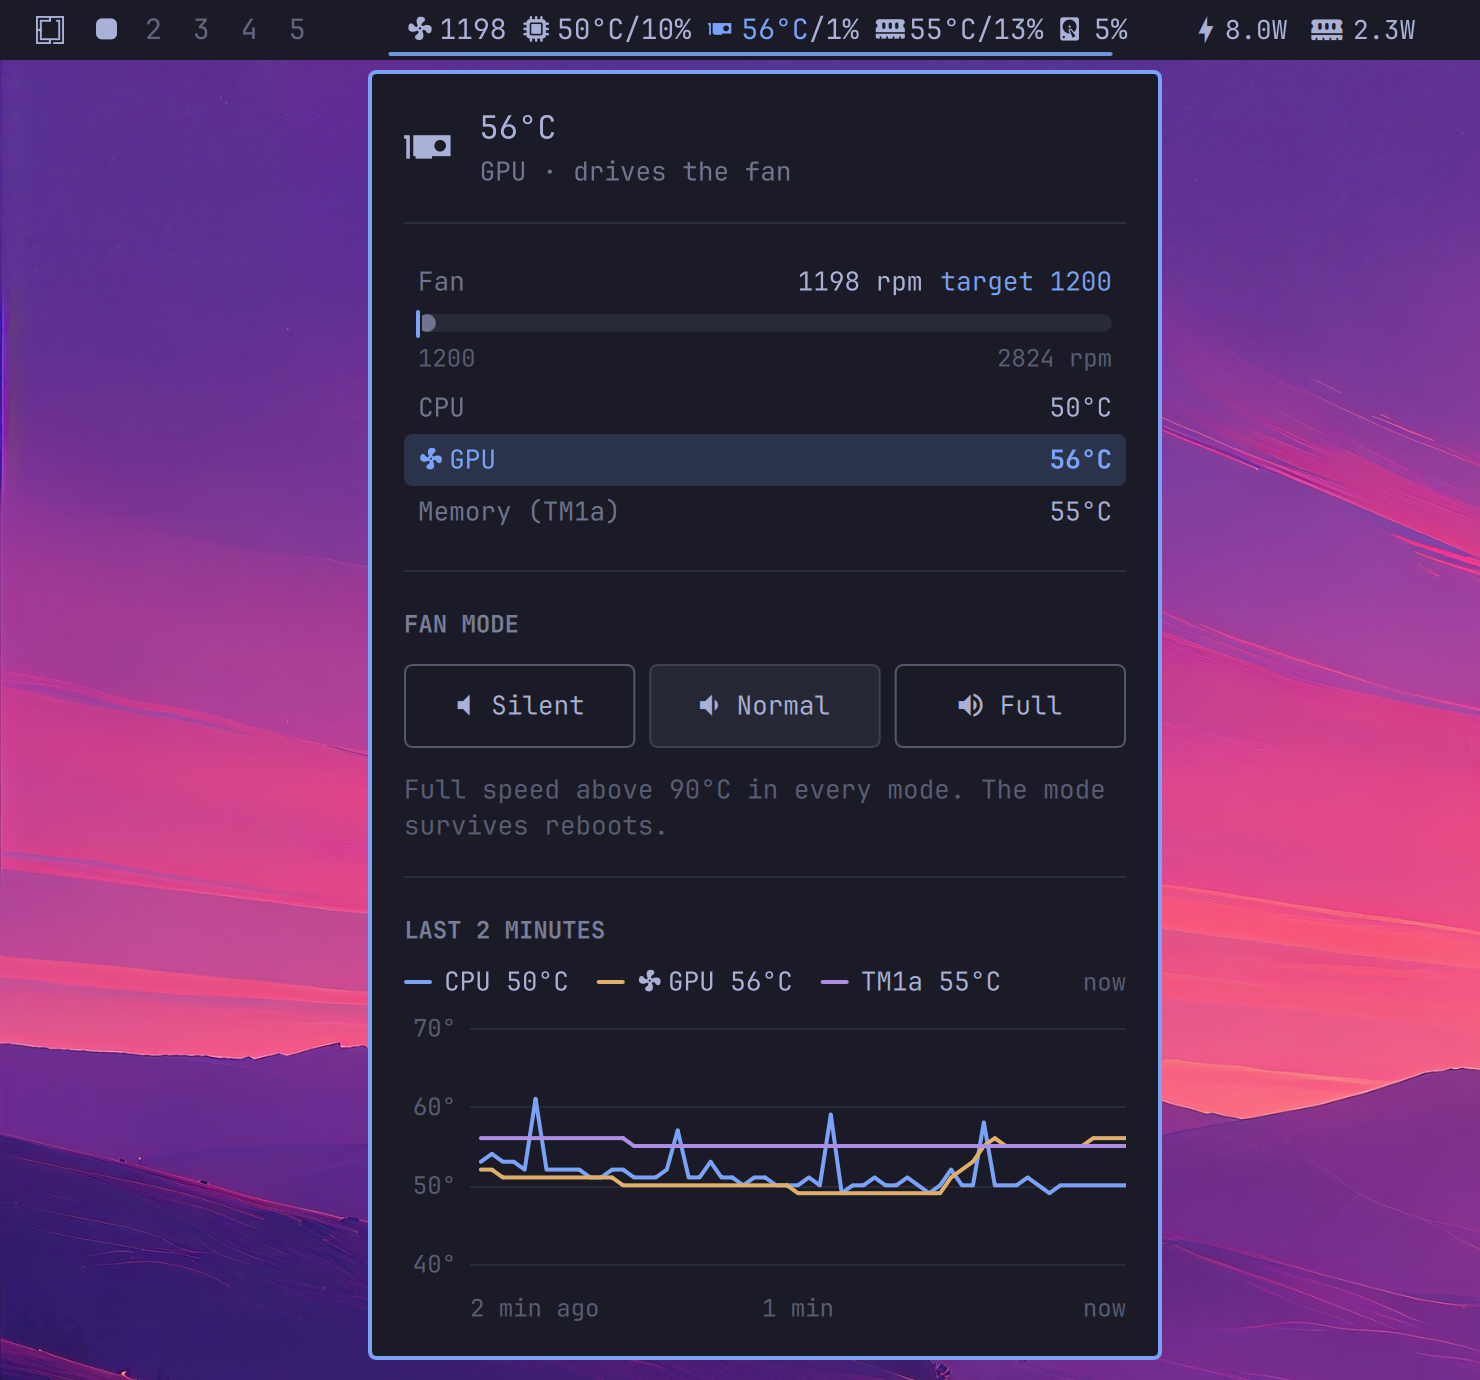
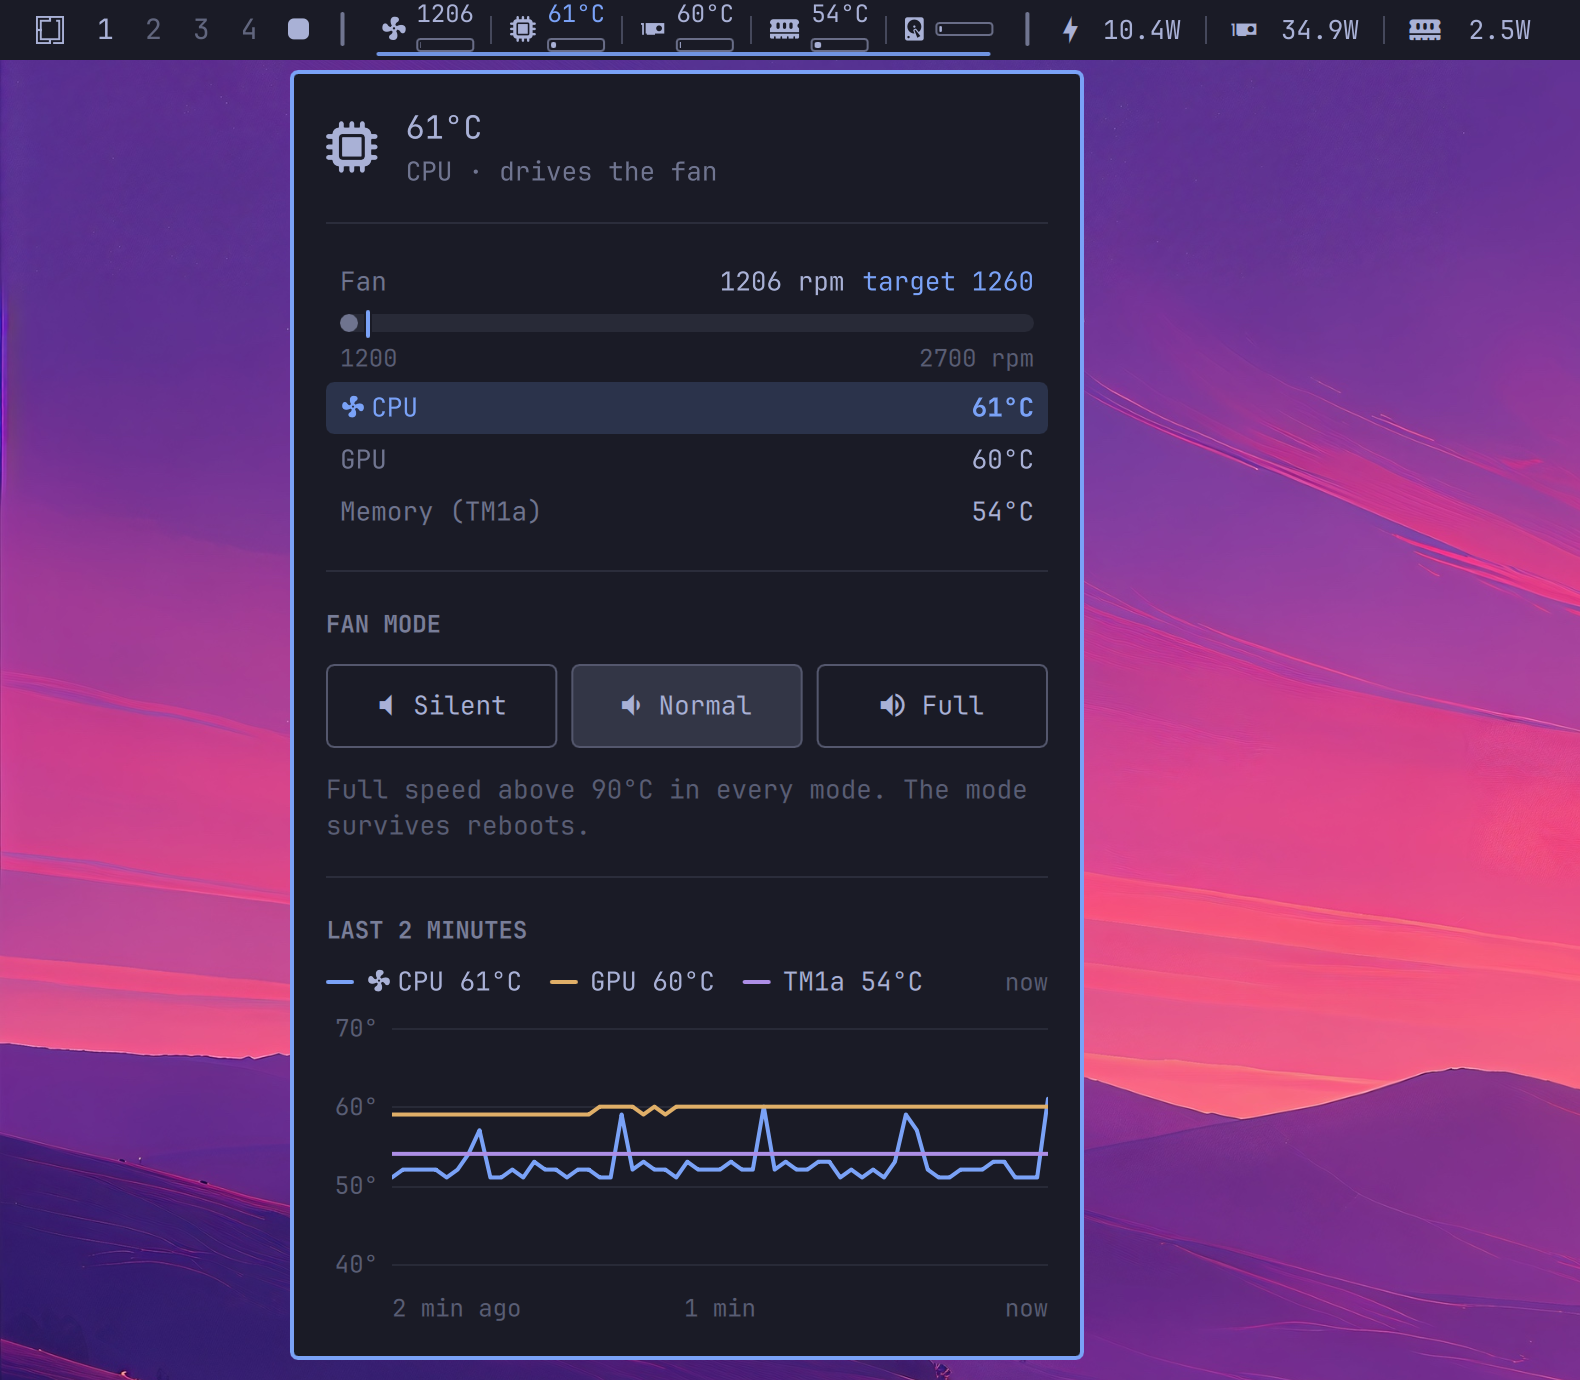
Bar: two-row readings with meters instead of percentages
Each reading is an icon and two stacked rows, like marionuevo.netgraph:
the temperature (or the fan's rpm) on top and, below, a meter whose
outline is the whole range and whose fill is the current value. Usage
becomes a meter for CPU, GPU and RAM; the fan's meter places the rpm
within its min-max range. The disk keeps only its meter. Widths are fixed
by TextMetrics, so the widget still never shifts its neighbors, and it
shrinks from ~480 to ~305 logical px. README and screenshot updated.

diff --git a/ImacStats.qml b/ImacStats.qml
@@ -4,10 +4,14 @@ import Quickshell.Io
 import qs.Ui
 import qs.Commons
 
-// Always-visible sensor readout: fan RPM, CPU/GPU temp and usage, memory
-// temp (SMC TM1a) and RAM usage, disk usage — icon+value pairs polled from
-// stats.py every 2s. The last two minutes of CPU, GPU and memory temps are
-// kept here, not in the panel, so its chart is already full when it opens.
+// Always-visible sensor readout polled from stats.py every 2s: fan RPM, CPU
+// and GPU temp and usage, memory temp (SMC TM1a) and RAM usage, disk usage.
+// Each reading is an icon and two stacked rows, like marionuevo.netgraph: the
+// number on top and, below, a meter (outline = the whole range, fill = the
+// current value) for the usage or, for the fan, the rpm within its range.
+// The disk has only its meter. The last two minutes of CPU, GPU and memory
+// temps are kept here, not in the panel, so its chart is already full when
+// it opens.
 //
 // Clicking opens the fan mode picker (Panel.qml). The fan itself is driven
 // by the imac-fand system daemon, not by this widget, so the readout keeps
@@ -21,16 +25,23 @@ BarWidget {
 
     readonly property int historySeconds: 120
 
-    // Padded to `width` characters: the bar font is monospaced, so every
-    // reading keeps its width and the widgets to the right don't shift as
-    // numbers change.
-    // `after` pads behind the unit, so a usage stays next to its "/".
-    function fmt(value, unit, width, after) {
-        var v = (value === undefined || value === null) ? "--" : String(value)
-        var pad = ""
-        while (v.length + pad.length < (width || 0)) pad += " "
-        return after ? v + unit + pad : pad + v + unit
+    readonly property color fg: button.foreground
+    readonly property string fontFamily: button.fontFamily
+
+    function fmt(value, unit) {
+        return ((value === undefined || value === null) ? "--" : String(value)) + unit
     }
+
+    // 0-1 for a meter; null (no reading) leaves it empty.
+    function fraction(value, lo, hi) {
+        if (value === undefined || value === null || !(hi > lo)) return null
+        return Math.max(0, Math.min(1, (value - lo) / (hi - lo)))
+    }
+
+    // The fan's range comes from imac-fand (fan1_min/fan1_max); without the
+    // daemon, the range applesmc reported on the original board.
+    readonly property real fanLo: stats.fanMin != null ? stats.fanMin : 1200
+    readonly property real fanHi: stats.fanMax != null ? stats.fanMax : 2700
 
     // The reading imac-fand follows ("cpu", "gpu" or an SMC key such as
     // TM1a); empty without the daemon, when nothing here drives the fan. An
@@ -38,39 +49,10 @@ BarWidget {
     readonly property string driverKey: stats.daemon !== true || !stats.sensor ? "" :
         (stats.source === "cpu" || stats.source === "gpu") ? String(stats.source) : String(stats.sensor)
 
-    // The label as [text, drives the fan, separator] pieces. Another SMC probe
-    // in charge (TM2d, a board sensor...) is shown next to the rpm, already
-    // marked. Separators are three spaces with a hairline drawn across the
-    // middle one, so the plain text WidgetButton sizes itself by still has
-    // the label's exact width.
-    readonly property var pieces: {
-        var other = driverKey !== "" && ["cpu", "gpu", "TM1a"].indexOf(driverKey) < 0
-        var hottest = stats.hottest != null ? Math.round(stats.hottest) : null
-        // rpm 1200-2900; temperatures stay under 100°C (full fan from 90);
-        // usage reaches 100%; the disk is far from full.
-        var sep = ["   ", false, true]
-        return [
-            [" " + fmt(stats.fan, "", 4) + (stats.daemon === false ? "!" : ""), false],
-            [other ? " " + driverKey + " " + fmt(hottest, "°C", 2) : "", other],
-            sep,
-            [" " + fmt(stats.cpuTemp, "°C", 2), driverKey === "cpu"],
-            ["/" + fmt(stats.cpu, "%", 3, true), false],
-            sep,
-            [" " + fmt(stats.gpuTemp, "°C", 2), driverKey === "gpu"],
-            ["/" + fmt(stats.gpu, "%", 3, true), false],
-            sep,
-            [" " + fmt(stats.memTemp, "°C", 2) + (stats.ramCap != null ? "!" : ""), driverKey === "TM1a"],
-            ["/" + fmt(stats.ram, "%", 3, true), false],
-            sep,
-            [" " + fmt(stats.disk, "%", 2), false]
-        ]
-    }
-
-    readonly property string displayText: {
-        var out = ""
-        for (var i = 0; i < pieces.length; i++) out += pieces[i][0]
-        return out
-    }
+    // Another SMC probe in charge (TM2d, a board sensor...) is shown next to
+    // the rpm, already marked; the CPU, GPU and memory readings are marked
+    // in place.
+    readonly property bool otherDriver: driverKey !== "" && ["cpu", "gpu", "TM1a"].indexOf(driverKey) < 0
 
     function parseStats(raw) {
         try {
@@ -108,7 +90,7 @@ BarWidget {
     function close() { if (panelLoader.item) panelLoader.item.close() }
     function togglePanel() { if (panelLoader.item) panelLoader.item.toggle() }
 
-    readonly property real openPanelIndicatorWidth: styledLabel.implicitWidth
+    readonly property real openPanelIndicatorWidth: readings.implicitWidth
     readonly property real openPanelIndicatorHeight: Math.max(Style.space(10), Math.round(Style.bar.iconSlot * 0.55))
 
     // Forwarded so this widget can stand in for the panel as the bar's popout
@@ -136,52 +118,195 @@ BarWidget {
     onBarChanged: injectPanel()
     onSettingsChanged: injectPanel()
 
+    // Widest top row, a temperature or a fan rpm; every number and meter
+    // takes this width, so the widget keeps its width as readings change and
+    // the widgets to the right don't shift.
+    TextMetrics {
+        id: widest
+        font.family: root.fontFamily
+        font.pixelSize: Style.font.caption
+        text: "99°C"
+    }
+
+    // One reading: its icon and a two-row column, the number on top (empty
+    // for a meter alone) and the meter below. `flag` hangs a "!" after the
+    // number, out of the column, into the gap before the next hairline.
+    component Reading: Row {
+        id: reading
+        property string icon
+        property string value: ""
+        property bool drives: false
+        property bool flag: false
+        property var fill: null
+        anchors.verticalCenter: parent ? parent.verticalCenter : undefined
+        spacing: Style.space(4)
+
+        Text {
+            anchors.verticalCenter: parent.verticalCenter
+            text: reading.icon
+            color: root.fg
+            font.family: root.fontFamily
+            font.pixelSize: button.fontSize
+            renderType: Text.NativeRendering
+        }
+
+        Column {
+            anchors.verticalCenter: parent.verticalCenter
+
+            Text {
+                id: number
+                visible: reading.value !== ""
+                width: widest.width
+                horizontalAlignment: Text.AlignRight
+                text: reading.value
+                color: reading.drives ? Color.accent : root.fg
+                font.family: root.fontFamily
+                font.pixelSize: Style.font.caption
+                renderType: Text.NativeRendering
+
+                Text {
+                    visible: reading.flag
+                    anchors.left: parent.right
+                    text: "!"
+                    color: Color.accent
+                    font: number.font
+                    renderType: Text.NativeRendering
+                }
+            }
+
+            Meter {
+                fill: reading.fill
+            }
+        }
+    }
+
+    // A text row tall, so the meter sits where a second line of text would.
+    // The outline is the whole range; the fill, inset from it, the value.
+    component Meter: Item {
+        id: meter
+        property var fill: null
+        width: widest.width
+        height: widest.height
+
+        Rectangle {
+            id: track
+            anchors.verticalCenter: parent.verticalCenter
+            width: parent.width
+            height: 7
+            radius: 2
+            color: "transparent"
+            border.width: 1
+            border.color: root.fg
+            opacity: 0.55
+        }
+
+        Rectangle {
+            x: track.x + 2
+            anchors.verticalCenter: track.verticalCenter
+            width: meter.fill === null ? 0 : (track.width - 4) * meter.fill
+            height: track.height - 4
+            radius: 1
+            color: root.fg
+        }
+    }
+
+    // The hairline between readings; marionuevo.separator draws a stronger
+    // one between widgets.
+    component Gap: Item {
+        width: Style.space(15)
+        height: 1
+        anchors.verticalCenter: parent ? parent.verticalCenter : undefined
+
+        Rectangle {
+            anchors.centerIn: parent
+            width: 1
+            height: Math.round((root.bar ? root.bar.barSize : Style.bar.sizeHorizontal) * 0.45)
+            color: root.fg
+            opacity: 0.3
+        }
+    }
+
     WidgetButton {
         id: button
         anchors.left: parent.left
-        // No gap of its own before the label: marionuevo.separator sets the
-        // space between widgets. The margins are tuned so the separator
-        // lines on either side sit centered: 6 rather than 8.5 because the
-        // "%" glyph carries some bearing, and 2.5 more on the left because
-        // the fan glyph carries less.
+        // No gap of its own before the readings: marionuevo.separator sets
+        // the space between widgets. The margins are tuned so the separator
+        // lines on either side sit centered.
         anchors.leftMargin: 2.5
         anchors.verticalCenter: parent.verticalCenter
         bar: root.bar
-        text: root.displayText
+        // WidgetButton sizes itself by its plain-text label; here the label
+        // is hidden and the width comes from the readings instead.
+        text: " "
         labelVisible: false
         horizontalMargin: 6
+        fixedWidth: readings.implicitWidth + button.scaledHorizontalMargin * 2
 
-        // WidgetButton's own label is one plain text; this one colors the
-        // reading that drives the fan. One plain Text per piece rather than
-        // StyledText, which collapses runs of spaces and so would undo the
-        // padding. Same glyphs and font, so the same width.
         Row {
-            id: styledLabel
+            id: readings
             anchors.centerIn: parent
 
-            Repeater {
-                model: root.pieces
+            Reading {
+                icon: ""
+                value: root.fmt(root.stats.fan, "")
+                flag: root.stats.daemon === false
+                fill: root.fraction(root.stats.fan, root.fanLo, root.fanHi)
+            }
 
-                Text {
-                    required property var modelData
-                    text: modelData[0]
-                    color: modelData[1] ? Color.accent : button.foreground
-                    font.family: button.fontFamily
-                    font.pixelSize: button.fontSize
-                    renderType: Text.NativeRendering
-                    verticalAlignment: Text.AlignVCenter
+            // Two rows as well: which probe and how hot.
+            Column {
+                visible: root.otherDriver
+                anchors.verticalCenter: parent.verticalCenter
+                leftPadding: Style.space(6)
 
-                    // The hairline between readings; marionuevo.separator
-                    // draws a stronger one between widgets.
-                    Rectangle {
-                        visible: modelData[2] === true
-                        anchors.centerIn: parent
-                        width: 1
-                        height: Math.round((root.bar ? root.bar.barSize : Style.bar.sizeHorizontal) * 0.45)
-                        color: button.foreground
-                        opacity: 0.3
+                Repeater {
+                    model: [root.driverKey,
+                            root.fmt(root.stats.hottest != null ? Math.round(root.stats.hottest) : null, "°C")]
+
+                    Text {
+                        required property var modelData
+                        text: modelData
+                        color: Color.accent
+                        font.family: root.fontFamily
+                        font.pixelSize: Style.font.caption
+                        renderType: Text.NativeRendering
                     }
                 }
+            }
+
+            Gap {}
+
+            Reading {
+                icon: ""
+                value: root.fmt(root.stats.cpuTemp, "°C")
+                drives: root.driverKey === "cpu"
+                fill: root.fraction(root.stats.cpu, 0, 100)
+            }
+
+            Gap {}
+
+            Reading {
+                icon: ""
+                value: root.fmt(root.stats.gpuTemp, "°C")
+                drives: root.driverKey === "gpu"
+                fill: root.fraction(root.stats.gpu, 0, 100)
+            }
+
+            Gap {}
+
+            Reading {
+                icon: ""
+                value: root.fmt(root.stats.memTemp, "°C")
+                drives: root.driverKey === "TM1a"
+                flag: root.stats.ramCap != null
+                fill: root.fraction(root.stats.ram, 0, 100)
+            }
+
+            Gap {}
+
+            Reading {
+                icon: ""
+                fill: root.fraction(root.stats.disk, 0, 100)
             }
         }
 

diff --git a/README.md b/README.md
@@ -3,9 +3,9 @@
 [![License: MIT](https://img.shields.io/badge/license-MIT-yellow.svg)](LICENSE)
 [![Omarchy](https://img.shields.io/badge/omarchy-shell%20plugin-1793d1)](https://omarchy.org)
 
-A minimal `bar-widget` plugin for the [Omarchy](https://omarchy.org/) shell (Quickshell) on an Intel iMac, plus a small fan daemon. Shows fan RPM, CPU/GPU temp and usage, memory temp and RAM usage, and disk usage as a static row of icon+value pairs. Clicking opens a fan mode picker, with the reading that drives the fan highlighted and a chart of the last two minutes of CPU, GPU and memory temps.
+A minimal `bar-widget` plugin for the [Omarchy](https://omarchy.org/) shell (Quickshell) on an Intel iMac, plus a small fan daemon. Shows fan RPM, CPU/GPU temp and usage, memory temp and RAM usage, and disk usage. Each reading is an icon and two stacked rows: the temperature (or the fan's rpm) on top, and below a meter whose outline is the whole range and whose fill is the current value (usage, or the rpm within the fan's range). The disk has only its meter. Every reading keeps a fixed width, so the widgets to the right never shift. Clicking opens a fan mode picker, with the reading that drives the fan highlighted and a chart of the last two minutes of CPU, GPU and memory temps.
 
-![The bar and the panel: the GPU drives the fan, and a chart of the last two minutes of CPU, GPU and memory temps](docs/screenshot.png)
+![The bar and the panel: the CPU drives the fan, and a chart of the last two minutes of CPU, GPU and memory temps](docs/screenshot.png)
 
 Built for an iMac15,1 (Retina 5K, late 2014: i5-4690, Radeon R9 M290X/M295X) and adapted from [omarchy-minimal-liquid-stats](https://github.com/marionuevo/omarchy-minimal-liquid-stats).
 
@@ -41,11 +41,11 @@ Showing the 5K desktop at idle the GPU draws ~35 W; with the panel off (DPMS) ~8
 
 | Icon | Value | Source |
 |------|-------|--------|
-|  fan | Fan RPM (`!` when the daemon is down) | `applesmc` `fan1_input` |
-|  CPU | CPU temp / usage % | `coretemp` "Package id 0", `/proc/stat` |
-|  GPU | GPU temp / usage % | `amdgpu` "edge" (SMC `TG0D` as daemon fallback), `radeontop` |
-|  memory | Memory temp / RAM usage % | SMC `TM1a`, `/proc/meminfo` |
-|  disk | `/` usage % | `shutil.disk_usage` |
+|  fan | Fan RPM, meter within the fan's min–max (`!` when the daemon is down) | `applesmc` `fan1_input` |
+|  CPU | CPU temp, usage meter | `coretemp` "Package id 0", `/proc/stat` |
+|  GPU | GPU temp, usage meter | `amdgpu` "edge" (SMC `TG0D` as daemon fallback), `radeontop` |
+|  memory | Memory temp, RAM usage meter | SMC `TM1a`, `/proc/meminfo` |
+|  disk | `/` usage meter | `shutil.disk_usage` |
 
 `gpu_busy_percent` is not implemented for this Southern Islands Radeon, so GPU usage comes from a one-second `radeontop` sample that overlaps the CPU sample.
 
@@ -107,4 +107,4 @@ cat /run/imac-fan/status.json
 - Omarchy running on Hyprland
 - Python 3
 - `applesmc` and `coretemp` (loaded by default on Intel Macs), `amdgpu`
-- `radeontop` for GPU usage (optional; shows `--%` without it)
+- `radeontop` for GPU usage (optional; the GPU meter stays empty without it)
